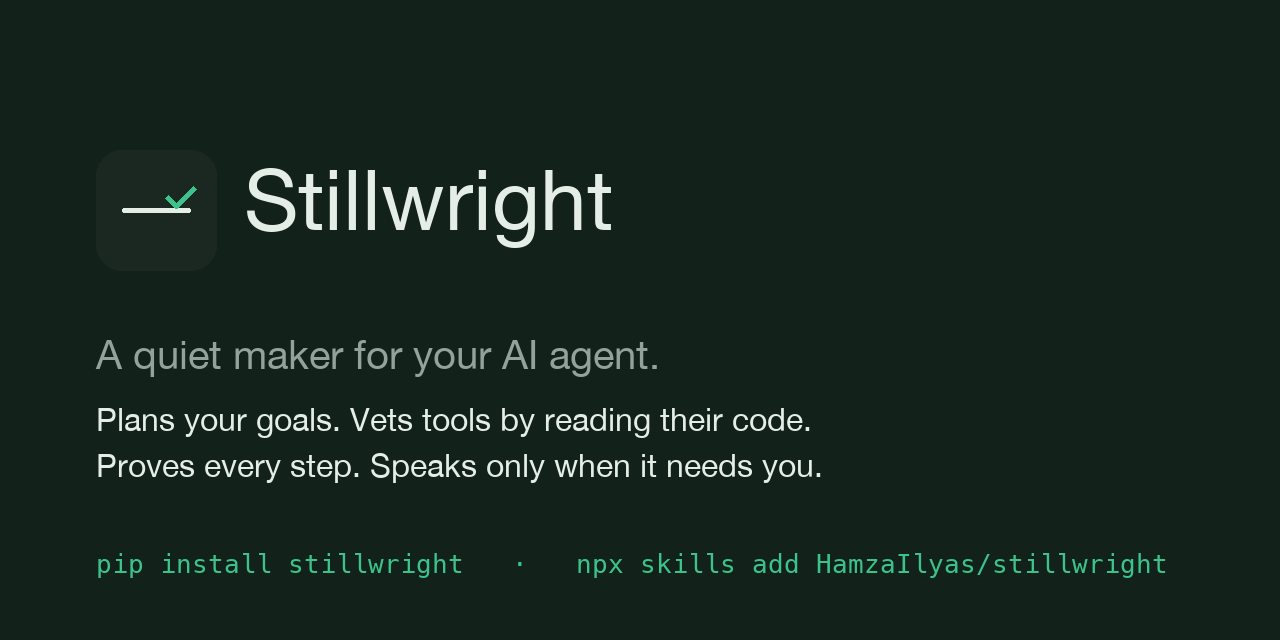
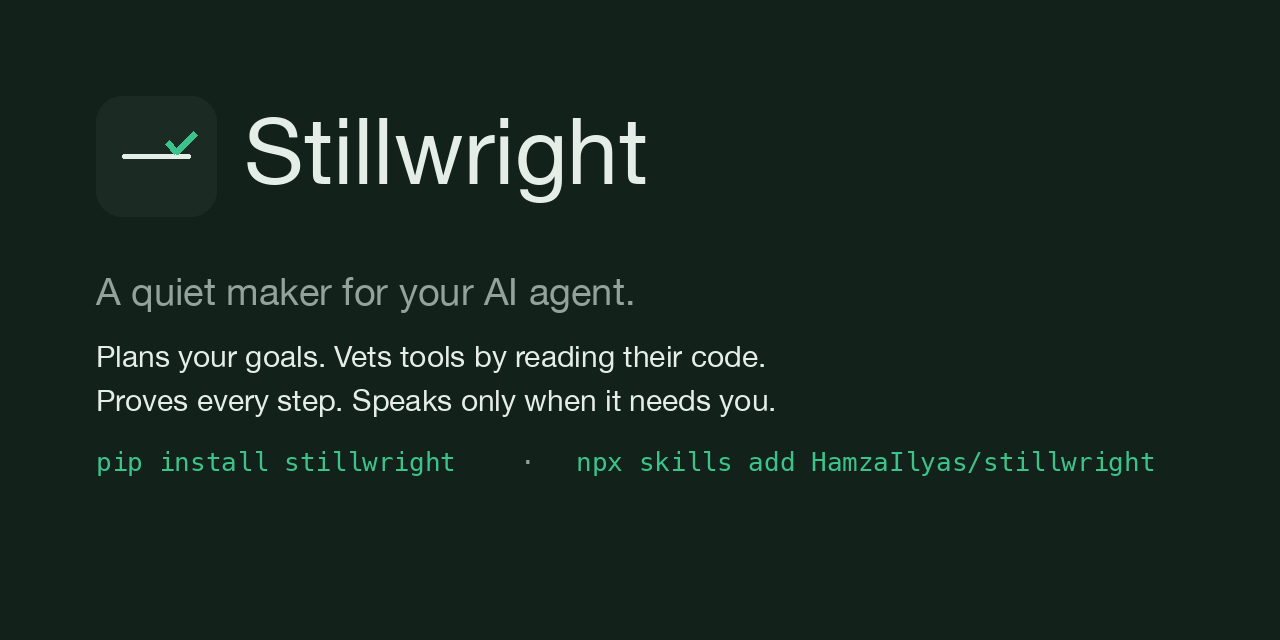
fix(press): social card keeps the bottom 140 px empty for link-preview title bars; add make_card.py

diff --git a/press/make_card.py b/press/make_card.py
@@ -1,0 +1,38 @@
+#!/usr/bin/env python3
+"""Draw press/card.png (1280x640). Link cards on X and others lay a title bar over the bottom of the image,
+so every line of text stays above y=500 and the bottom 140 px hold nothing but background.
+Run: uv run --python 3.12 --with pillow python3 press/make_card.py"""
+from PIL import Image, ImageDraw, ImageFont
+
+W, H = 1280, 640
+INK, TEXT, ACCENT, MUTED = "#12211a", "#e5ede7", "#3cc38b", "#93a39a"
+SAFE_BOTTOM = 500  # nothing below this line
+
+def font(name: str, size: int, index: int = 0) -> ImageFont.FreeTypeFont:
+    return ImageFont.truetype(name, size, index=index)
+
+sans = "/System/Library/Fonts/HelveticaNeue.ttc"
+mono = "/System/Library/Fonts/Menlo.ttc"
+img = Image.new("RGB", (W, H), INK)
+d = ImageDraw.Draw(img)
+
+# logo tile: a still line with one proven step (same geometry as press/logo.svg, scaled to 120 px)
+x0, y0, s = 96, 96, 120 / 256
+d.rounded_rectangle((x0, y0, x0 + 120, y0 + 120), radius=int(56 * s), fill="#1b2b23")
+d.rounded_rectangle((x0 + 56 * s, y0 + 124 * s, x0 + 200 * s, y0 + 132 * s), radius=2, fill=TEXT)
+d.line([(x0 + 152 * s, y0 + 100 * s), (x0 + 172 * s, y0 + 120 * s), (x0 + 212 * s, y0 + 80 * s)], fill=ACCENT, width=7, joint="curve")
+
+d.text((244, 96), "Stillwright", font=font(sans, 92, index=0), fill=TEXT)
+d.text((96, 268), "A quiet maker for your AI agent.", font=font(sans, 38), fill=MUTED)
+body = font(sans, 30)
+d.text((96, 338), "Plans your goals. Vets tools by reading their code.", font=body, fill=TEXT)
+d.text((96, 382), "Proves every step. Speaks only when it needs you.", font=body, fill=TEXT)
+cmd = font(mono, 26)
+d.text((96, 446), "pip install stillwright", font=cmd, fill=ACCENT)
+d.text((520, 446), "·", font=cmd, fill=MUTED)
+d.text((576, 446), "npx skills add HamzaIlyas/stillwright", font=cmd, fill=ACCENT)
+
+# guard: no text pixel below the safe line
+assert all(img.getpixel((x, y)) == (0x12, 0x21, 0x1a) for y in range(SAFE_BOTTOM, H, 4) for x in range(0, W, 8)), "text below the safe zone"
+img.save("press/card.png", optimize=True)
+print("wrote press/card.png")

diff --git a/press/README.md b/press/README.md
@@ -21,7 +21,7 @@ five lines or fewer. State is plain files; the CLI is one Rust binary. MIT.
 ## Files
 
 - `logo.svg`, `logo.png` (dark), `logo-light.svg`, `logo-light.png`
-- `card.png`: 1280×640 social card
+- `card.png`: 1280×640 social card, drawn by `make_card.py`; the bottom 140 px stay empty because link previews on X and elsewhere lay a title bar over them
 - `demo-horizontal.mp4` (960×560, about 18 s), `demo-vertical.mp4` (720×1280, about 17 s), and
   `../assets/demo.gif`
 - Colours: ink `#12211a`, text `#e5ede7`, accent `#3cc38b`, muted `#93a39a`
